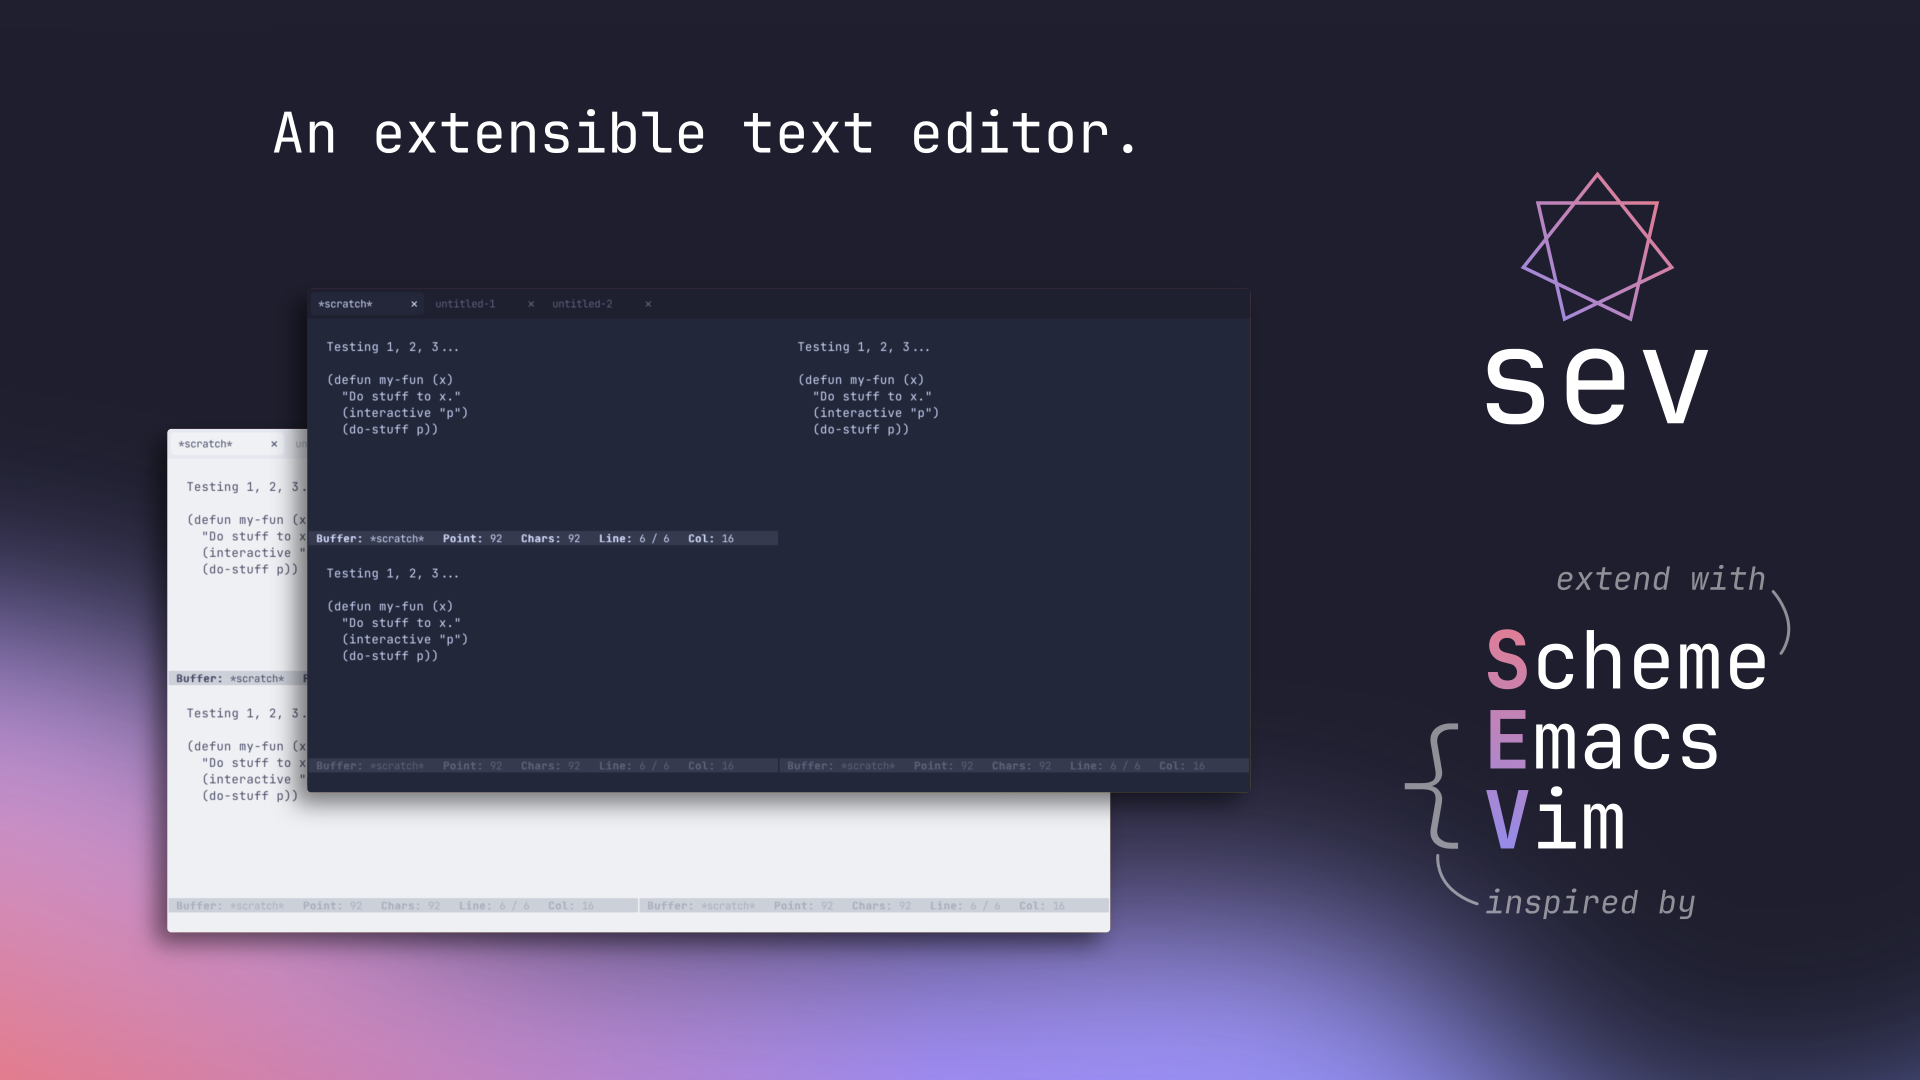
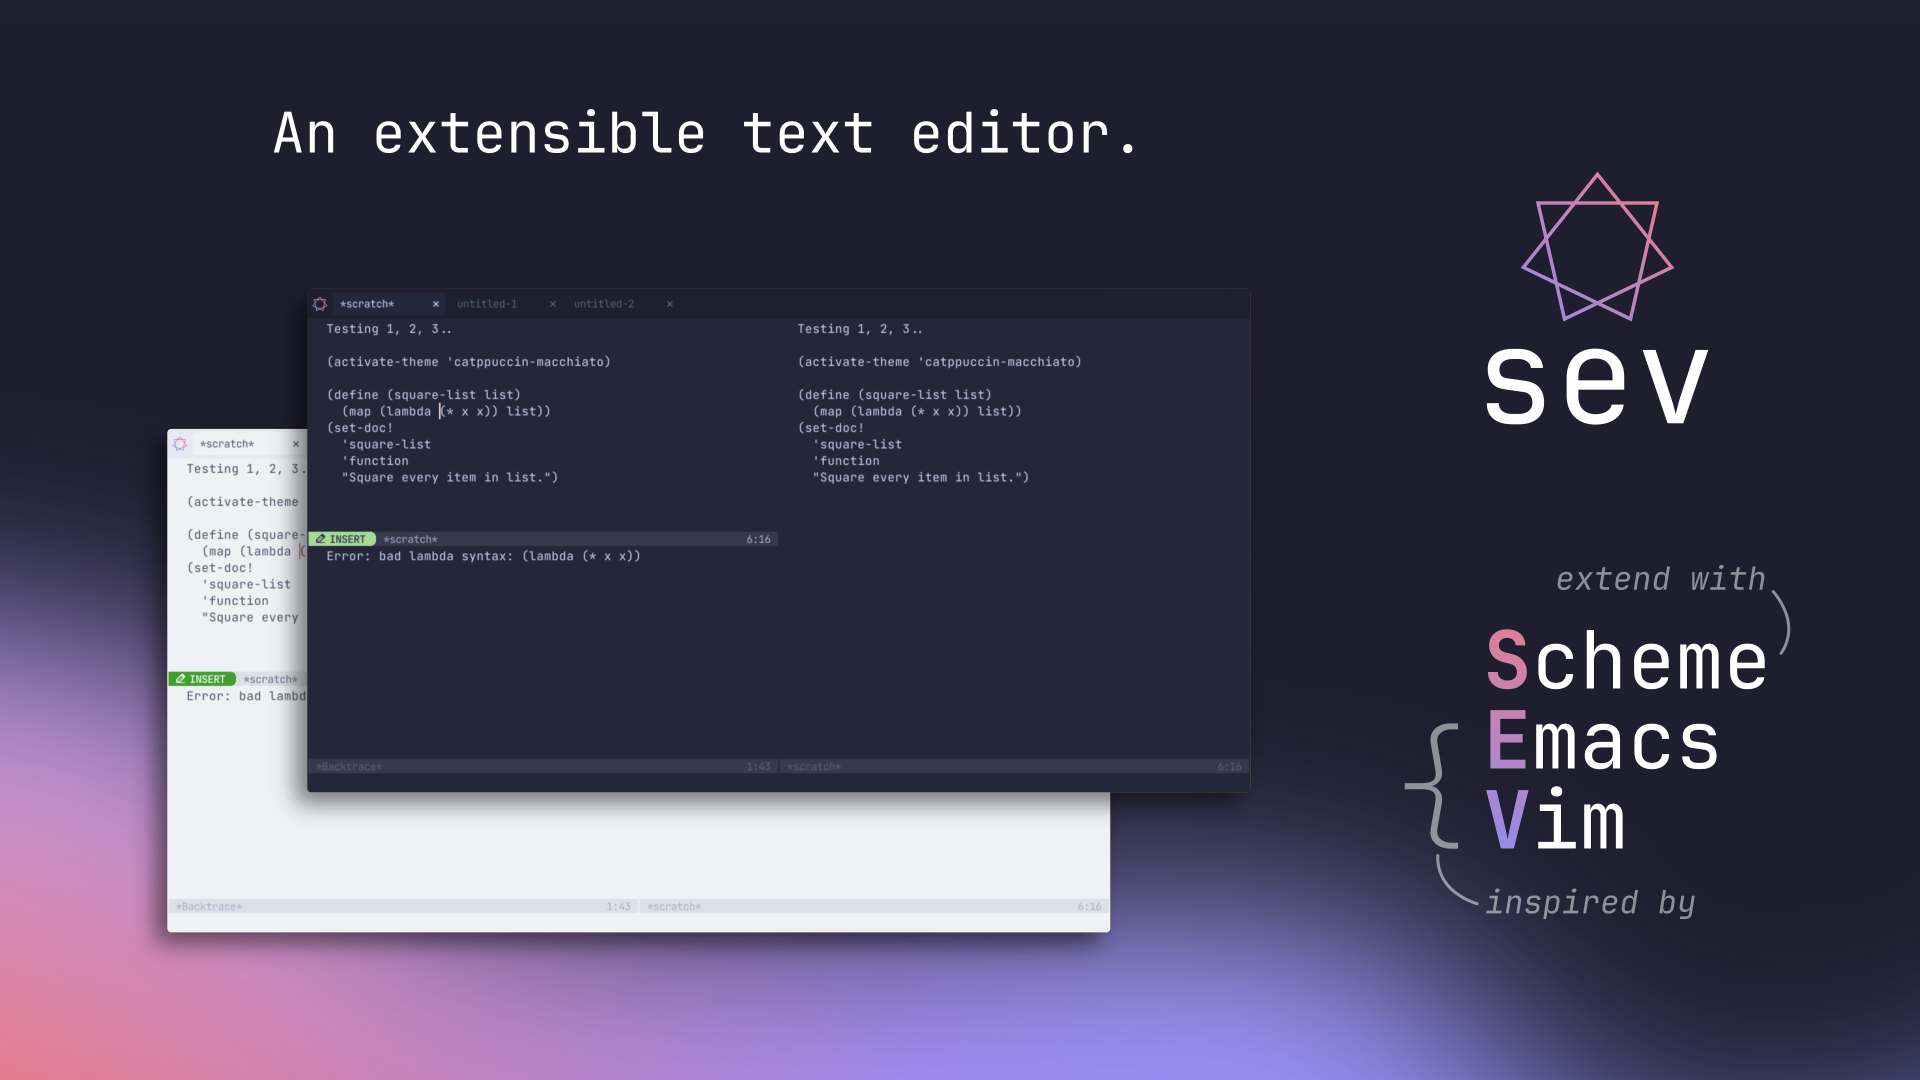
update README

diff --git a/README.md b/README.md
@@ -1,21 +1,77 @@
 ![Banner image](banner.png)
 
-# Emacs From Scratch
+# `sev`
 
-This repo is my attempt at building an Emacs-like extensible text editor powered by:
+`sev` is an Emacs-like, Vim-like extensible graphical text editor powered by:
 
-- [SDL3](https://libsdl.org/) for windowing, rendering and low level device input.
-- [Clay](https://www.nicbarker.com/clay) for UI.
+- [SDL3](https://libsdl.org/) for windowing, rendering and low level device I/O.
+- [Clay](https://www.nicbarker.com/clay) for layout and UI.
 - [Chibi Scheme](https://synthcode.com/wiki/chibi-scheme) as an embedded interpreted language, filling the same role as elisp in Emacs or Lua in Neovim.
 
-It is _not_ an attempt to build a feature-complete clone of Emacs, but does aim to be:
+This application is _not_ an attempt to build a feature-complete clone of Emacs, but does aim to be:
 
 - Genuinely usable.
 - Lightweight / performant.
 - Portable. More specifically, able to run on Windows, Mac, Linux _and_ in the browser via Emscripten and WebAssembly.
 - Highly configurable and extensible via Scheme.
 
-## Fresh build commands
+The ultimate goal of `sev` is to bring together a core set of features from Emacs and Vim (and a couple from more modern editors like Helix and Zed), which can then serve as a foundation for _non_-text-editor applications where text editing needs to be a first-class application capability. This leads to a couple of points of departure from the Emacs philosophy:
+
+1. Everything is _not_ a buffer. _Many_ things are buffers, but `sev` will also make use of other forms of graphical display. For example, I plan on using it to create a music composition environment with notation and all kinds of other non-text graphical elements.
+2. `sev` does not try to be unopinionated. Defaults should be sane, and batteries should usually be included.
+
+Emacs's power comes from the homogeneity of its internals and the fact that _everything_ is exposed via Lisp and available to customise. But the end user of Emacs is the person using it as a text editor, and they need to be able to change everything _at runtime_.
+
+The end user of `sev` is the application developer, who has direct access to the C internals. _Their_ end user is using whatever they build with it! _Most_ things should still be customisable, but the application developer is the user `sev` will be specially oriented towards. Hopefully it will still be an excellent text editor by itself, and perfectly viable as a main driver.
+
+A couple of features are also on the roadmap for `sev` beyond standard text editing capabilities:
+
+- I'm keen to explore [alternative ways of displaying text](https://arxiv.org/pdf/2008.06030) that make better use of modern monitors and typography.
+- As an admirer of [Obsidian](https://obsidian.md/), Emacs's [Org Mode](https://orgmode.org/) and the original idea of [hypermedia](https://en.wikipedia.org/wiki/Hypermedia) that gave us the World Wide Web, I'd like to build some wiki-like capabilities directly into the editor. Possibly via directives that are usable anywhere recognisable as inside a code comment in text buffers (or anywhere if the buffer holds non-code text like Markdown).
+
+## Project Organisation
+
+At the the top level:
+
+```
+├── resources/
+├── scheme/
+├── src/
+│   ├── clay/
+│   ├── command/
+│   ├── display/
+│   ├── text/
+│   ├── event.c
+│   ├── init.c
+│   ├── iterate.c
+│   ├── quit.c
+│   └── state.h
+└── vendored/
+```
+
+- `resources/` is where font and icon files are located.
+- `scheme/` is where all `sev`-specific Scheme scripts are located.
+- `src/` is where all C code resides.
+- `vendored/` is where external repositories such as [SDL3](https://github.com/libsdl-org/sdl) and [Chibi Scheme](https://github.com/ashinn/chibi-scheme) live as git submodules.
+
+Within the `src/` directory, the application is divided into three main layers: `command/`, `text/` and `display/`.
+
+- The command layer manages the mapping of user input to keymaps and command invocation, as well as setting up the Scheme interpreter.
+- The text layer defines things like text buffers, marks, logical lines and buffer-local variables, and exposes the functions that manipulate them.
+- The display layer defines the application layout, reusable UI components and the display model's notion of things such as _tabs_, _panes_ and _visual lines_.
+
+Several files also live at the top level of the `src/` directory:
+
+- `init.c`, `event.c`, `iterate.c` and `quit.c` define functions called by SDL.
+  - `init.c` is where all code called during application startup should go.
+  - `event.c` is where handling is set up for various events.
+  - `iterate.c` is the entry point for rendering and post-rendering cleanup.
+  - `quit.c` is where functions are called to clean up allocated resources on app shutdown.
+- `state.h` defines the global `AppState` object.
+
+## Building
+
+### Fresh build commands
 
 ```bash
 # Desktop
@@ -31,7 +87,7 @@ emcmake cmake -S . -B build-wasm -DCMAKE_BUILD_TYPE=Release
 cmake --build build-wasm
 ```
 
-## Rebuild commands
+### Rebuild commands
 
 ```bash
 ## Desktop
@@ -43,7 +99,7 @@ cd build-wasm
 make -j$(nproc)
 ```
 
-## Running WASM build
+### Running WASM build
 
 ```bash
 python3 -m http.server